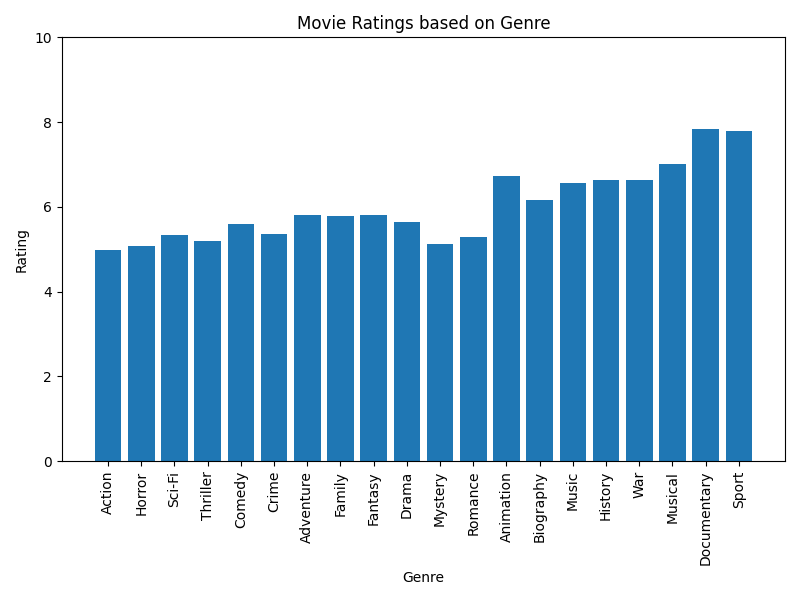
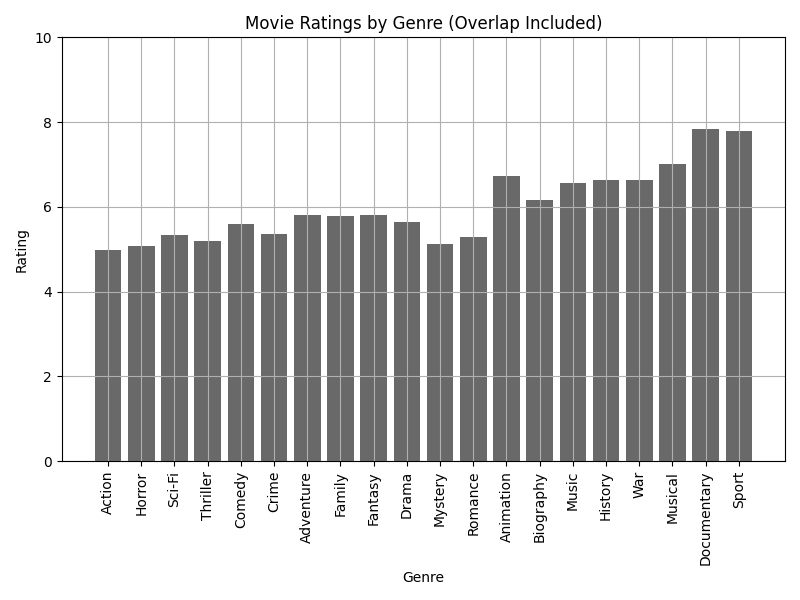
updated databse

Changed region(s): [[0.0938, 0.21, 0.9688, 0.78], [0.3125, 0.03, 0.75, 0.06]]

diff --git a/main.py b/main.py
@@ -31,55 +31,72 @@ def create_youtube_table(cur,conn):
 def insert_youtube_data(cur,conn):
     cur.execute('SELECT title FROM OMDB')
     movie_titles = cur.fetchall()
-    print(movie_titles[0][0])
-    x = 40 #start from 40
-    for movie_title in movie_titles[x:x+25]:
+    x = 143 #start from 126
+    for movie_title in movie_titles[x:x+5]:
         cur.execute('SELECT EXISTS(SELECT 1 FROM Youtube WHERE title = ? LIMIT 1)',(movie_title[0],))
         test = cur.fetchone()[0]
         if test == 0:
-            print('hi')
+            print(movie_title[0])
             temp_movie = create_video_list(movie_title[0]+' Trailer 2020')
             title = movie_title[0]
             likes = temp_movie[0]['likes']
             dislikes = temp_movie[0]['dislikes']
             views = temp_movie[0]['viewCount']
             cur.execute('INSERT OR IGNORE INTO Youtube (title,likes,dislikes,views) VALUES (?,?,?,?)',(title,likes,dislikes,views))
-    conn.commit()
+            conn.commit()
 
 def plot_rating_based_on_genre(cur,conn):
     cur.execute('SELECT * FROM OMDB')
     genre_rating = defaultdict(list)
+    genre_rating_count = {}
     data = cur.fetchall()
     for datum in data:
         genre_list = datum[3].split(', ')
         for genre in genre_list:
             genre_rating[genre].append(datum[2])
+    
     for key in genre_rating:
+        genre_rating_count[key] = len(key)
         genre_rating[key] = round(sum(genre_rating[key])/len(genre_rating[key]),2)
-
+    
     #create folder for output text
     source_dir = os.path.dirname(__file__)
     if not os.path.exists(source_dir + '/text'):
         os.mkdir(source_dir + '/text')
-
+    #create folder for output plot
+    if not os.path.exists(source_dir + '/plots'):
+            os.mkdir(source_dir + '/plots')
     #write out to file
     filename = source_dir + '/text/average_movie_rating_by_genre.txt'
     with open(filename,'w') as f:
+        f.writelines('Movie Rating by Genre in 2020 (Overlap Included)\n')
         for key in genre_rating:
-            f.writelines(str((key,genre_rating[key]))+'\n')
+            f.writelines('The average rating for ' + key + ' genre movies in 2020 is calculated to be ' + str(genre_rating[key]) + '. (Number of movies in '+ key + ' genre: ' + str(genre_rating_count[key]) + ')\n')
     
     fig,axes = plt.subplots(figsize = (8,6))
-    axes.bar(genre_rating.keys(),genre_rating.values(),align='center')
-    axes.set_title('Movie Ratings based on Genre')
+    axes.bar(genre_rating.keys(),genre_rating.values(),align='center',color='dimgrey')
+    axes.set_title('Movie Ratings by Genre (Overlap Included)')
     axes.set_xlabel('Genre')
     axes.set_ylabel('Rating')
     axes.set_ylim(0,10)
+    axes.grid()
     plt.xticks(rotation=90)
     plt.tight_layout()
     source_dir = os.path.dirname(__file__)
-    if not os.path.exists(source_dir + '/plots'):
-        os.mkdir(source_dir + '/plots')
+    
     plt.savefig(source_dir + '/plots/genre_rating.png')
+
+    fig1,axes1 = plt.subplots(figsize = (8,6))
+    plt.bar(genre_rating_count.keys(),list(genre_rating_count.values()),color='lightsteelblue')
+    plt.xticks(rotation = 90)
+    axes1.set_xlabel('Genre')
+    axes1.set_ylabel('Count')
+    axes1.set_title('Movie Count by Genre (Overlap Included)')
+    plt.tight_layout()
+    axes1.grid()
+    plt.savefig(source_dir + '/plots/genre_pie.png')
+
+    plt.show()
 
 def plot_rating_based_on_month(cur,conn):
     month_rating = defaultdict(list)
@@ -95,30 +112,6 @@ def plot_rating_based_on_month(cur,conn):
     if not os.path.exists(source_dir + '/text'):
         os.mkdir(source_dir + '/text')
 
-    #write out to file
-    filename = source_dir + '/text/average_movie_rating_by_month.txt'
-    with open(filename,'w') as f:
-        for key in month_rating:
-            f.writelines(str((key,month_rating[key]))+'\n')
-    
-    #create folder for plot
-    if not os.path.exists(source_dir + '/plots'):
-        os.mkdir(source_dir + '/plots')
-
-    fig,axes = plt.subplots(figsize = (8,6))
-    axes.bar(month_rating.keys(),month_rating.values(),align='center')
-    axes.set_title('Movie Ratings based on Month')
-    axes.set_xlabel('Month')
-    axes.set_ylabel('Rating')
-    axes.set_ylim(0,10)
-    axes.set_xticks(np.arange(len(month_rating)+1))
-    plt.tight_layout()
-    source_dir = os.path.dirname(__file__)
-    if not os.path.exists(source_dir + '/plots'):
-        os.mkdir(source_dir + '/plots')
-    plt.savefig(source_dir + '/plots/month_rating.png')
-
-def plot_youtube_rating(cur,conn):
     cur.execute('SELECT Movies.date,Youtube.likes,Youtube.dislikes FROM Youtube JOIN Movies ON Youtube.title = Movies.name')
     youtube_ratings = cur.fetchall()
     youtube_dict = defaultdict(list)
@@ -128,34 +121,60 @@ def plot_youtube_rating(cur,conn):
     for key in youtube_dict:
         youtube_dict[key] = round(sum(youtube_dict[key])/len(youtube_dict[key]),2)*10
 
-    #create folder for output text
-    source_dir = os.path.dirname(__file__)
-    if not os.path.exists(source_dir + '/text'):
-        os.mkdir(source_dir + '/text')
-
     #write out to file
-    filename = source_dir + '/text/average_movie_rating_by_month_youtube.txt'
+    filename = source_dir + '/text/average_movie_rating_by_month.txt'
+    month = ['','January','February','March','April','May','June','July','August','September','October','November','December']
     with open(filename,'w') as f:
+        f.writelines('Movie Ratings by Month based on OMDB data\n')
+        for key in month_rating:
+            f.writelines('Movies premiered in ' + month[key] + ' have an average rating of ' + str(month_rating[key]) + '.\n')
+
+        f.writelines('\nMovie Ratings by Month based on Youtube Likes Percentage\n')
         for key in youtube_dict:
-            f.writelines(str((key,youtube_dict[key]))+'\n')
+            f.writelines('Likes percentage of movies premiered in '+ month[int(key)] + ' is ' + str(round(youtube_dict[key]*10,2)) + '%.\n')
     
     #create folder for plot
     if not os.path.exists(source_dir + '/plots'):
         os.mkdir(source_dir + '/plots')
 
     fig,axes = plt.subplots(figsize = (8,6))
-    axes.bar(youtube_dict.keys(),youtube_dict.values(),align='center')
-    axes.set_title('Movie Ratings based in each month based on likes/dislikes proportion')
+    axes.bar(month_rating.keys(),month_rating.values(),align='center')
+    axes.set_title('Movie Ratings by Month')
     axes.set_xlabel('Month')
     axes.set_ylabel('Rating')
     axes.set_ylim(0,10)
-    axes.set_xticks(np.arange(len(youtube_dict)+1))
+    axes.set_xticks(np.arange(len(month_rating)+1))
     plt.tight_layout()
     source_dir = os.path.dirname(__file__)
-    if not os.path.exists(source_dir + '/plots'):
-        os.mkdir(source_dir + '/plots')
-    plt.savefig(source_dir + '/plots/month_rating_youtube.png')
+    plt.savefig(source_dir + '/plots/month_rating.png')
 
+    fig1,axes1 = plt.subplots(figsize = (8,6))
+    axes1.bar(youtube_dict.keys(),youtube_dict.values(),align='center')
+    axes1.set_title('Movie Ratings by month based on likes/dislikes proportion')
+    axes1.set_xlabel('Month')
+    axes1.set_ylabel('Rating')
+    axes1.set_ylim(0,10)
+    axes1.set_xticks(np.arange(len(youtube_dict)+1))
+    plt.tight_layout()
+    source_dir = os.path.dirname(__file__)
+    
+    
+    plt.savefig(source_dir + '/plots/month_rating_youtube.png')
+    N = 11
+    bar_width = 0.35
+    ind = np.arange(N)
+    fig2,axes2 = plt.subplots(figsize = (8,6))
+    # print(list(month_rating.values())[0:11])
+    p1 = axes2.bar(ind,list(month_rating.values())[0:11],width = bar_width,label = 'OMDB',color = 'cornflowerblue')
+    p2 = axes2.bar(ind + bar_width,youtube_dict.values(),width = bar_width,label = 'Youtube',color = 'tomato')
+    axes2.set_xticks(ind + bar_width/2)
+    axes2.set_ylim(0,11)
+    axes2.set(ylabel = 'Rating Out of 10',title = 'Average Movie Ratings by Month')
+    axes2.set_xticklabels(('January','February','March','April','May','June','July','August','September','October','November'),rotation = 35)
+    axes2.legend((p1[0],p2[0]),('OMDB','Youtube'))
+    axes2.autoscale_view()
+    axes2.grid()
+    plt.savefig(source_dir + '/plots/month_rating_both_sources.png')
 
 def main():
     cur, conn = setUpDatabase('movie_name.db')
@@ -164,8 +183,8 @@ def main():
     #create_youtube_table(cur,conn)
     #insert_youtube_data(cur,conn)
     #plot_rating_based_on_genre(cur,conn)
-    #plot_rating_based_on_month(cur,conn)
-    plot_youtube_rating(cur,conn)
+    plot_rating_based_on_month(cur,conn)
+    #plot_youtube_rating(cur,conn)
 
 
 if __name__ == "__main__":

diff --git a/finalproject.py b/finalproject.py
@@ -145,7 +145,7 @@ def create_movie_table(cur, conn):
         print("soup created")
         namelist, datelist = getMonth(soup, "wikitable sortable")
     else:
-        print(f"Problem with getting heml from {url}")
+        print(f"Problem with getting html from {url}")
         print(r.status_code)
 
     cur.execute("DROP TABLE IF EXISTS Movies")

diff --git a/search_videos.py b/search_videos.py
@@ -3,7 +3,7 @@ import sqlite3
 import os
 
 #enter your youtube api key
-youtube_api_key = ''
+youtube_api_key = 'AIzaSyACtD8D34hwm44lqQU_gwoTL5207HMWls8'
 #build the service object
 youtube_service = build('youtube','v3',developerKey=youtube_api_key)
 
